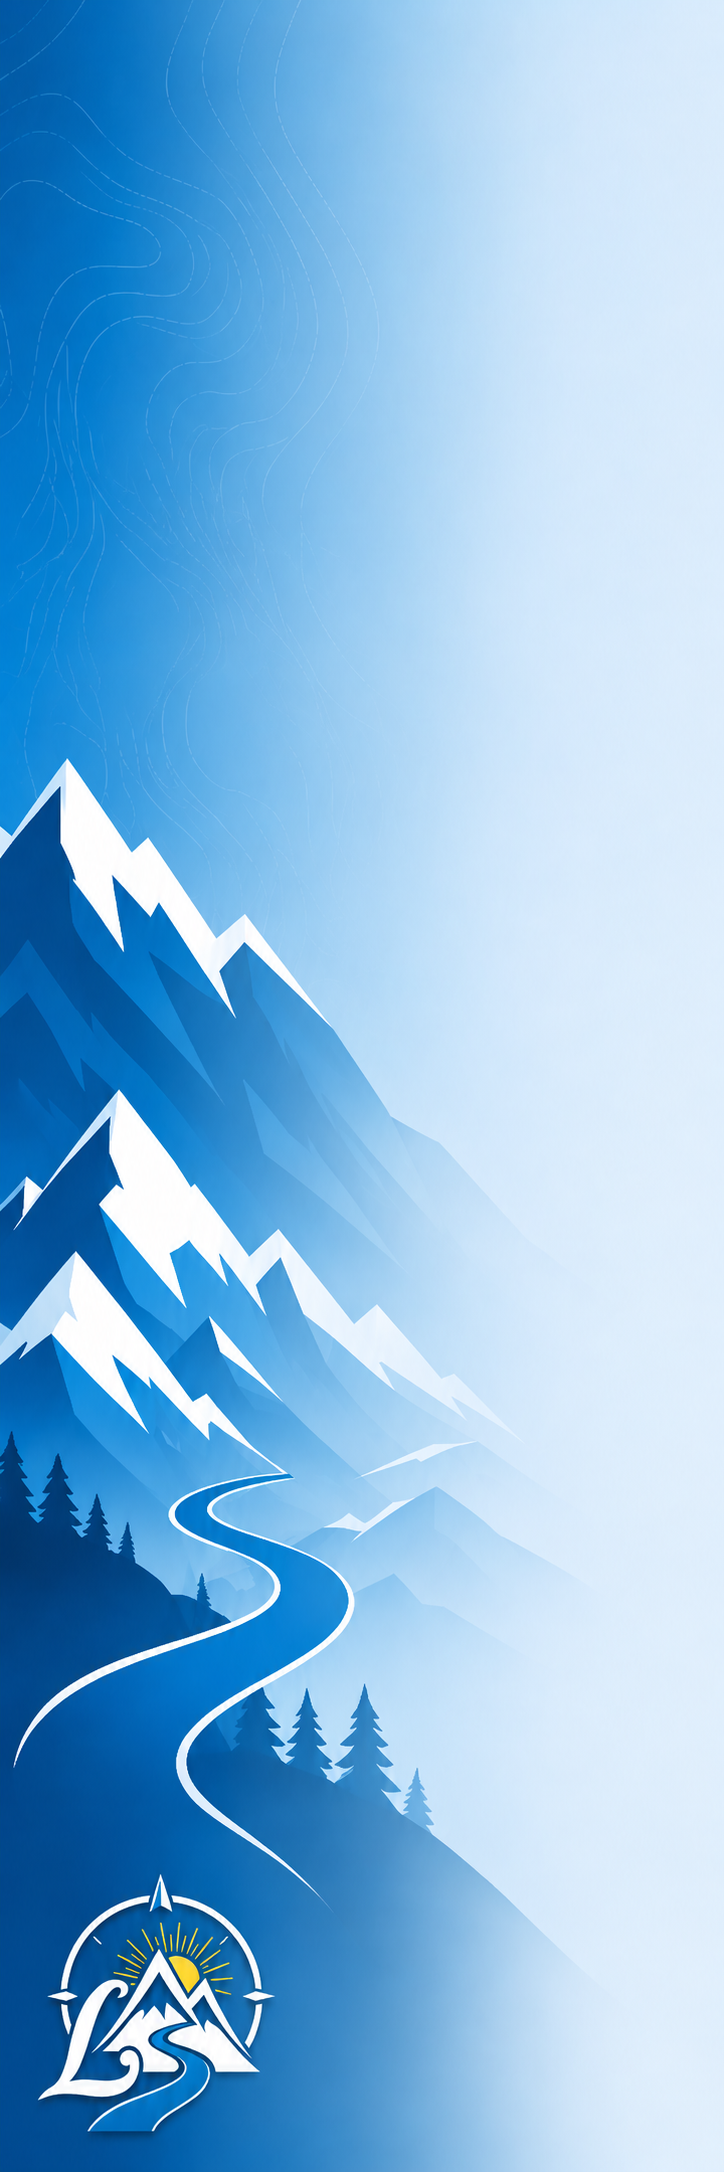
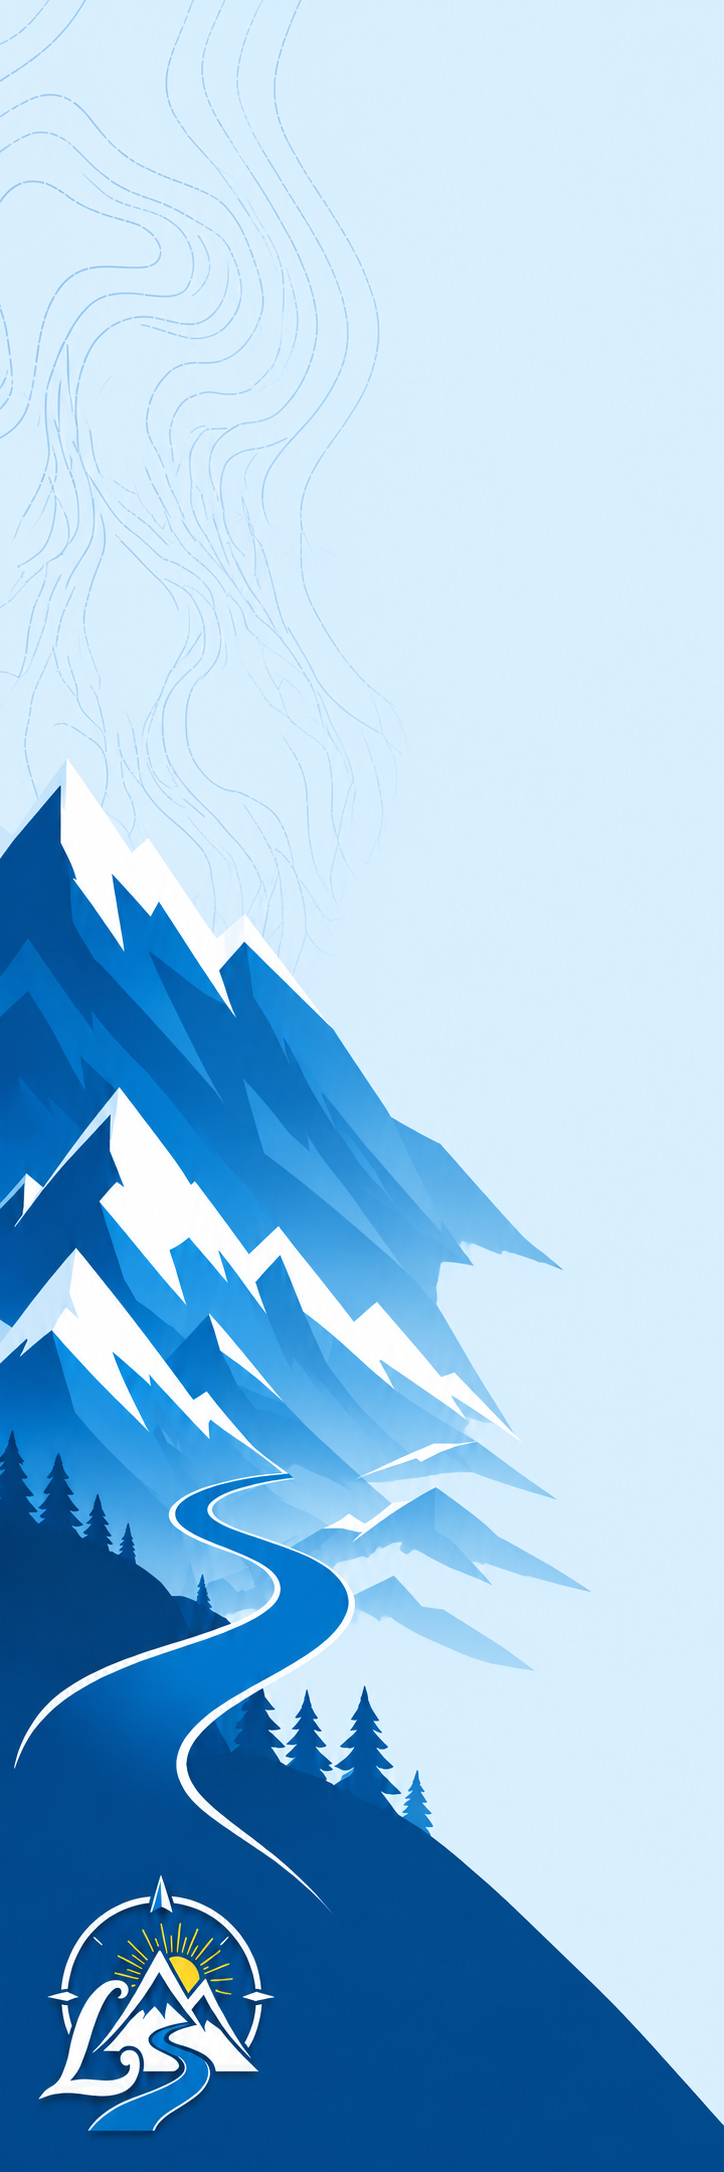
Ajustar imagen y contraste del menú lateral del admin
Nueva imagen de fondo sin degradé y sin velo blanco; el texto del menú pasa a negro con sombra clara (legible sobre cualquier zona de la foto) y sombra celeste al pasar el mouse.

diff --git a/src/app/admin/(protected)/nav-group.js b/src/app/admin/(protected)/nav-group.js
@@ -17,7 +17,7 @@ export default function NavGroup({ titulo, items }) {
       <button
         type="button"
         onClick={() => setAbierto((v) => !v)}
-        className="flex items-center justify-between w-full text-xs font-bold text-slate-400 uppercase tracking-wide mb-1"
+        className="flex items-center justify-between w-full text-xs font-bold text-slate-900 [filter:drop-shadow(0_1px_2px_rgba(255,255,255,0.9))] uppercase tracking-wide mb-1 transition hover:[filter:drop-shadow(0_0_6px_rgba(14,165,233,0.9))]"
       >
         <span>{titulo}</span>
         <span
@@ -33,7 +33,7 @@ export default function NavGroup({ titulo, items }) {
               key={item.href}
               href={item.href}
               prefetch={false}
-              className="text-sm font-semibold text-slate-600 hover:text-sky-600"
+              className="text-sm font-semibold text-slate-900 [filter:drop-shadow(0_1px_2px_rgba(255,255,255,0.9))] rounded-lg px-2 py-1 -mx-2 transition hover:[filter:drop-shadow(0_0_6px_rgba(14,165,233,0.9))]"
             >
               {item.label}
             </Link>

diff --git a/src/app/admin/(protected)/layout.js b/src/app/admin/(protected)/layout.js
@@ -38,7 +38,6 @@ export default async function AdminLayout({ children }) {
           backgroundPosition: "top left",
         }}
       >
-        <div className="absolute inset-0 bg-white/70" />
         <div className="relative flex flex-col gap-3 p-4 flex-1">
           <div className="flex items-center justify-end gap-2 md:mb-2">
             <p className="text-sm text-slate-400">Hola, {admin.nombre}</p>
@@ -54,7 +53,7 @@ export default async function AdminLayout({ children }) {
                 key={item.href}
                 href={item.href}
                 prefetch={false}
-                className="text-sm font-semibold text-slate-600 hover:text-sky-600"
+                className="text-sm font-semibold text-slate-900 [filter:drop-shadow(0_1px_2px_rgba(255,255,255,0.9))] rounded-lg px-2 py-1 -mx-2 transition hover:[filter:drop-shadow(0_0_6px_rgba(14,165,233,0.9))]"
               >
                 {item.label}
               </Link>

diff --git a/src/app/admin/(protected)/logout-button.js b/src/app/admin/(protected)/logout-button.js
@@ -23,7 +23,7 @@ export default function LogoutButton() {
       <button
         type="button"
         onClick={() => setConfirmando(true)}
-        className="text-xs font-semibold text-slate-500 border border-slate-200 rounded-full px-3 py-1.5 hover:text-slate-700 hover:border-slate-300"
+        className="text-xs font-semibold text-slate-900 [filter:drop-shadow(0_1px_2px_rgba(255,255,255,0.9))] border border-white/60 rounded-full px-3 py-1.5 transition hover:[filter:drop-shadow(0_0_6px_rgba(14,165,233,0.9))]"
       >
         Cerrar sesión
       </button>

diff --git a/CHANGELOG.md b/CHANGELOG.md
@@ -268,3 +268,8 @@ Este archivo documenta, en orden cronológico, todas las funcionalidades y cambi
 - Se agregó paginación al listado de Cargos con la misma lógica que Miembros y Pagos: selector "25 por página / 50 por página / Todos" (25 por defecto) en la misma línea que el título "Cargos", y pie de tabla con Anterior/Siguiente. Se sacó otro límite fijo de 100 resultados que tenía esta consulta.
 - Se creó una nueva sección colapsable "Comunicación" en el menú del admin (arriba de "Administración", en escritorio y mobile), con Mensajes, Grupos de Padres y Fechas importantes — se sacaron de "Administración".
 - Ajustes visuales menores: la etiqueta "Fecha scout" en Fechas importantes y el rango de fechas en "Vigencia" de Mensajes ya no cortan en dos líneas; se ensancharon un poco esas dos tarjetas para que entren cómodas.
+
+## 2026-09-11 — Ajustes de la imagen de fondo del menú lateral
+
+- Se reemplazó la imagen de fondo de la barra lateral por una versión de colores sólidos (sin degradé) y se sacó el velo blanco que la atenuaba, para que combine mejor con el celeste del resto del panel.
+- Las opciones del menú (Comunicación, Administración, Cerrar sesión) ahora se ven en texto negro con una sombra clara detrás, para que se lean bien tanto sobre la parte clara de la imagen como sobre la montaña oscura. Al pasar el mouse, se resaltan con una sombra celeste.
